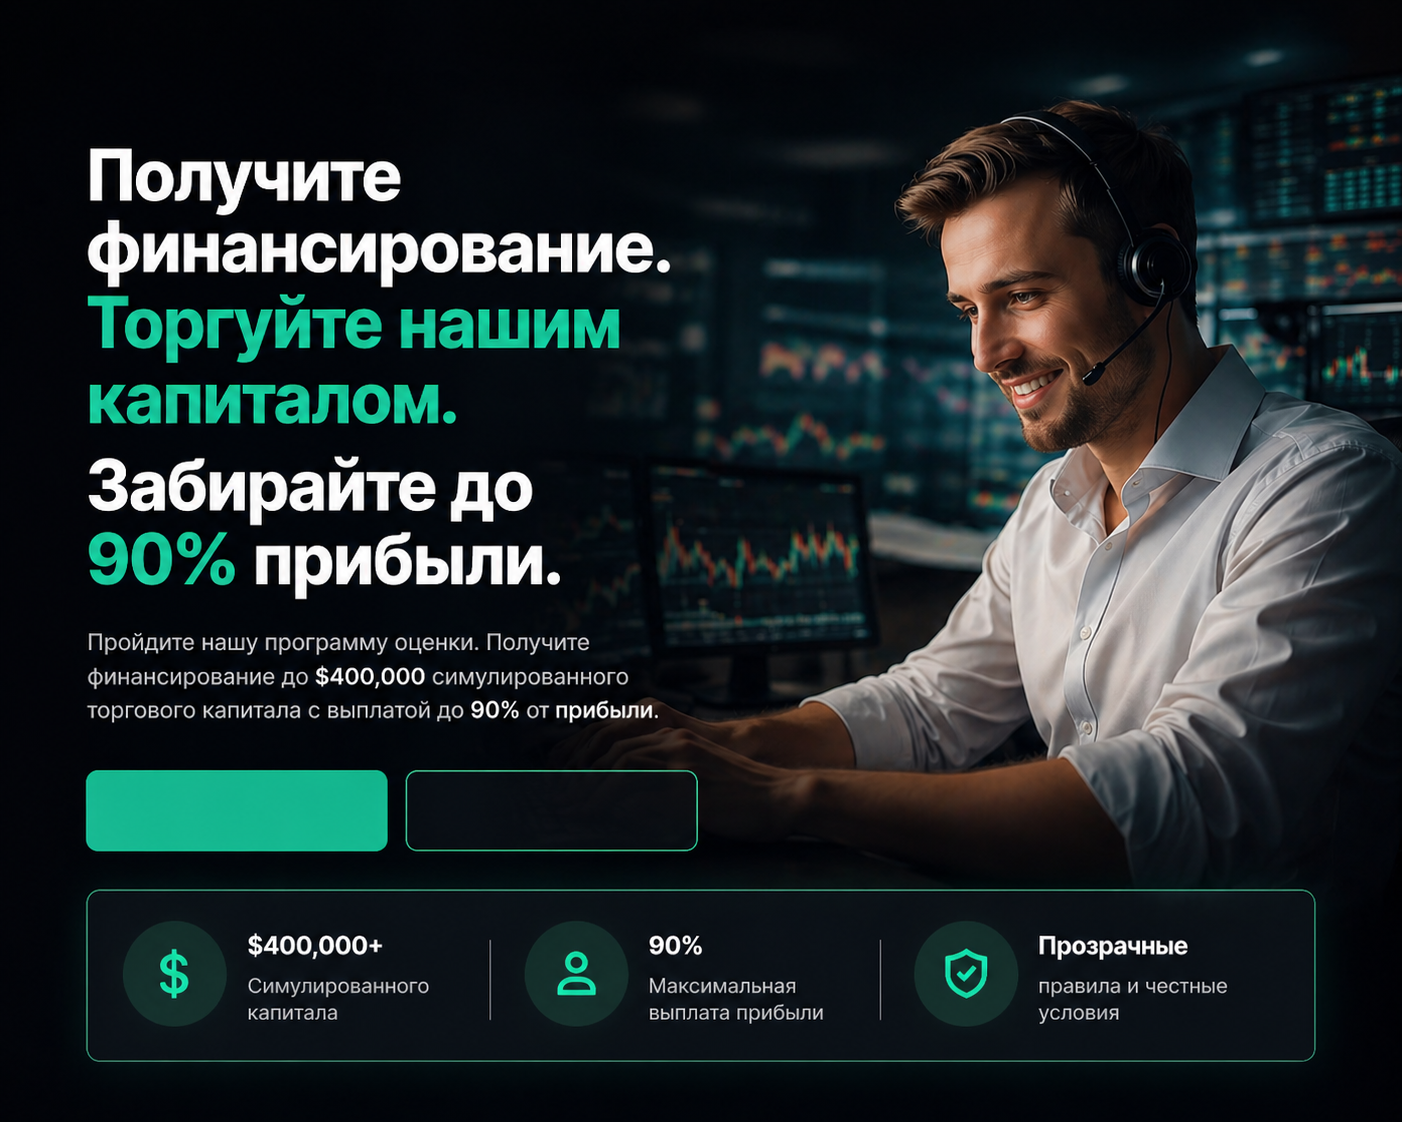
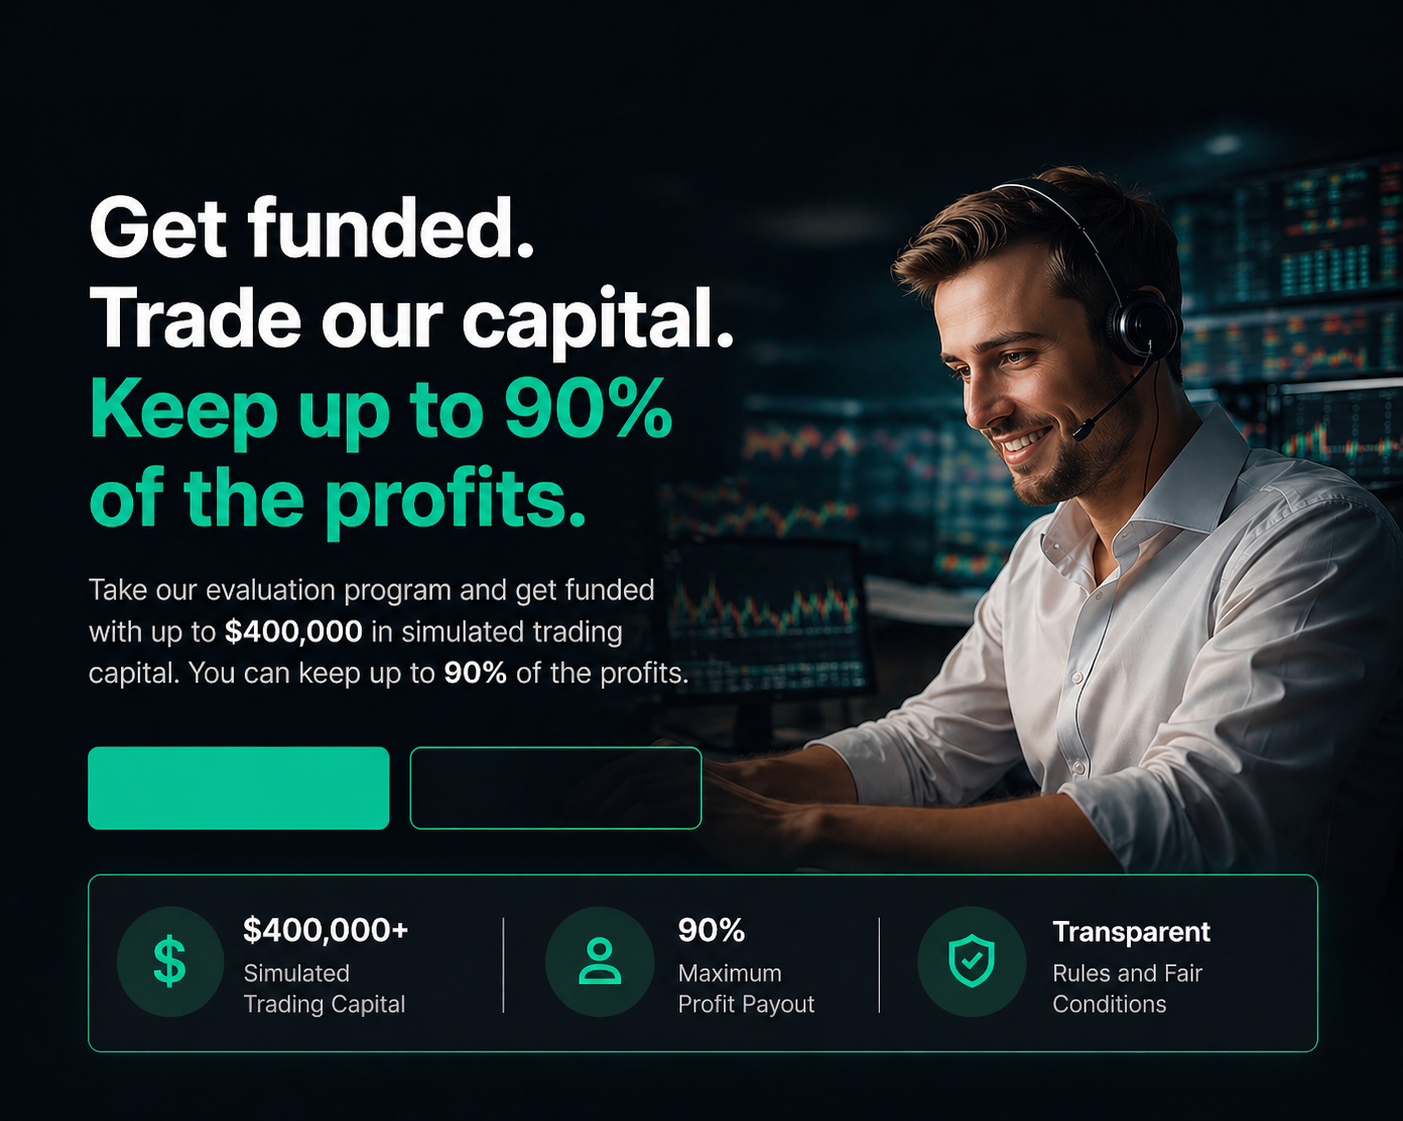
Hero: design match — trader photo bg, text left, stats bar, active buttons

diff --git a/src/web/components/Hero.tsx b/src/web/components/Hero.tsx
@@ -4,151 +4,129 @@ export default function Hero() {
   const { tr, lang } = useLang();
   const ru = lang === "ru";
 
+  const stats = ru
+    ? [
+        { icon: "💲", value: "$400,000+", line1: "Симулированного", line2: "торгового капитала" },
+        { icon: "👤", value: "90%",       line1: "Максимальная",    line2: "выплата прибыли" },
+        { icon: "🛡", value: "Прозрачные", line1: "правила и честные", line2: "условия" },
+      ]
+    : [
+        { icon: "💲", value: "$400,000+", line1: "Simulated",   line2: "Trading Capital" },
+        { icon: "👤", value: "90%",       line1: "Maximum",     line2: "Profit Payout" },
+        { icon: "🛡", value: "Transparent", line1: "Rules and Fair", line2: "Conditions" },
+      ];
+
   return (
-    <section style={{ background: "#0a0e17", paddingTop: "80px" }}>
-      <div style={{
-        position: "relative",
-        width: "100%",
-        minHeight: "clamp(420px, 60vw, 680px)",
-        overflow: "hidden",
-      }}>
-        {/* Background photo */}
+    <section style={{ background: "#060a10", paddingTop: "80px" }}>
+
+      {/* ── HERO PHOTO BLOCK ── */}
+      <div style={{ position: "relative", width: "100%", minHeight: "clamp(400px, 55vw, 660px)", overflow: "hidden" }}>
+
+        {/* Photo */}
         <img
           src="/hero-bg.png"
           alt="Professional trader"
           style={{
-            position: "absolute",
-            top: 0, left: 0,
-            width: "100%",
-            height: "100%",
-            objectFit: "cover",
-            objectPosition: "center top",
-            display: "block",
+            position: "absolute", top: 0, left: 0,
+            width: "100%", height: "100%",
+            objectFit: "cover", objectPosition: "center top",
             zIndex: 0,
           }}
         />
 
-        {/* Dark overlay — left heavy so text readable */}
+        {/* Left gradient — keeps text readable */}
         <div style={{
-          position: "absolute",
-          inset: 0,
-          background: "linear-gradient(to right, rgba(10,14,23,0.92) 0%, rgba(10,14,23,0.75) 45%, rgba(10,14,23,0.25) 75%, rgba(10,14,23,0.1) 100%)",
+          position: "absolute", inset: 0,
+          background: "linear-gradient(to right, rgba(6,10,16,0.95) 0%, rgba(6,10,16,0.80) 38%, rgba(6,10,16,0.30) 65%, rgba(6,10,16,0.0) 100%)",
           zIndex: 1,
         }} />
 
-        {/* Bottom fade */}
+        {/* Bottom fade into stats bar */}
         <div style={{
-          position: "absolute",
-          bottom: 0, left: 0, right: 0,
-          height: "35%",
-          background: "linear-gradient(to top, #0a0e17, transparent)",
+          position: "absolute", bottom: 0, left: 0, right: 0, height: "30%",
+          background: "linear-gradient(to top, #060a10, transparent)",
           zIndex: 2,
         }} />
 
-        {/* Text content */}
+        {/* TEXT */}
         <div style={{
-          position: "relative",
-          zIndex: 10,
-          maxWidth: "1200px",
-          margin: "0 auto",
-          padding: "clamp(48px, 8vw, 100px) 24px clamp(60px, 10vw, 120px)",
+          position: "relative", zIndex: 10,
+          maxWidth: "1200px", margin: "0 auto",
+          padding: "clamp(40px, 7vw, 90px) 32px clamp(80px, 12vw, 130px)",
         }}>
-          <div style={{ maxWidth: "560px" }}>
+          <div style={{ maxWidth: "520px" }}>
 
+            {/* Headline */}
             <h1 style={{
               margin: 0,
-              fontSize: "clamp(34px, 5.5vw, 72px)",
+              fontSize: "clamp(36px, 5.5vw, 72px)",
               fontWeight: 900,
               lineHeight: 1.08,
-              letterSpacing: "-0.025em",
+              letterSpacing: "-0.02em",
               color: "#FFFFFF",
             }}>
               {ru ? (
                 <>
-                  Получите<br />
-                  финансирование.<br />
-                  <span style={{ color: "#00D4AA" }}>Торгуйте нашим<br />капиталом.</span><br />
-                  Забирайте до <span style={{ color: "#00D4AA" }}>90%</span> прибыли.
+                  Получите<br />финансирование.<br />
+                  Торгуйте нашим капиталом.<br />
+                  <span style={{ color: "#00D4AA" }}>Забирайте до 90%<br />прибыли.</span>
                 </>
               ) : (
                 <>
-                  {tr.hero_h1_1}<br />
-                  <span style={{ color: "#00D4AA" }}>{tr.hero_h1_2}</span>
+                  Get funded.<br />
+                  Trade our capital.<br />
+                  <span style={{ color: "#00D4AA" }}>Keep up to 90%<br />of the profits.</span>
                 </>
               )}
             </h1>
 
+            {/* Subtitle */}
             <p style={{
-              marginTop: "clamp(14px, 2vw, 24px)",
-              fontSize: "clamp(14px, 1.4vw, 17px)",
-              color: "rgba(255,255,255,0.72)",
-              lineHeight: 1.65,
-              maxWidth: "460px",
+              marginTop: "clamp(16px, 2vw, 28px)",
+              fontSize: "clamp(14px, 1.3vw, 16px)",
+              color: "rgba(255,255,255,0.68)",
+              lineHeight: 1.7,
+              maxWidth: "420px",
             }}>
-              {tr.hero_sub}{" "}
-              <strong style={{ color: "#fff" }}>{tr.hero_sub_amount}</strong>{" "}
-              {tr.hero_sub_mid}{" "}
-              <strong style={{ color: "#fff" }}>{tr.hero_sub_split}</strong>.
+              {ru
+                ? <>Пройдите нашу программу оценки и получите финансирование до <strong style={{ color: "#fff" }}>$400,000</strong> симулированного торгового капитала. Вы можете забрать до <strong style={{ color: "#fff" }}>90%</strong> прибыли.</>
+                : <>Take our evaluation program and get funded with up to <strong style={{ color: "#fff" }}>$400,000</strong> in simulated trading capital. You can keep up to <strong style={{ color: "#fff" }}>90%</strong> of the profits.</>
+              }
             </p>
 
-            {/* CTA buttons */}
-            <div style={{
-              display: "flex",
-              gap: "12px",
-              marginTop: "clamp(24px, 3vw, 40px)",
-              flexWrap: "wrap",
-            }}>
+            {/* Buttons */}
+            <div style={{ display: "flex", gap: "14px", marginTop: "clamp(24px, 3.5vw, 44px)", flexWrap: "wrap" }}>
               <a
                 href="https://app.probcapital.com"
                 target="_blank"
                 rel="noopener noreferrer"
                 style={{
-                  display: "inline-flex",
-                  alignItems: "center",
-                  justifyContent: "center",
-                  padding: "15px 32px",
-                  borderRadius: "8px",
-                  background: "#00D4AA",
-                  color: "#0a0e17",
-                  fontWeight: 700,
-                  fontSize: "clamp(14px, 1.2vw, 16px)",
-                  textDecoration: "none",
-                  boxShadow: "0 4px 24px rgba(0,212,170,0.5)",
-                  whiteSpace: "nowrap",
-                  cursor: "pointer",
+                  display: "inline-flex", alignItems: "center", justifyContent: "center",
+                  padding: "15px 34px", borderRadius: "8px",
+                  background: "#00D4AA", color: "#060a10",
+                  fontWeight: 700, fontSize: "clamp(14px, 1.2vw, 16px)",
+                  textDecoration: "none", whiteSpace: "nowrap",
+                  boxShadow: "0 4px 28px rgba(0,212,170,0.5)",
                 }}
               >
                 {ru ? "Начать челлендж →" : "Start Challenge →"}
               </a>
-
               <a
                 href="#how-it-works"
                 style={{
-                  display: "inline-flex",
-                  alignItems: "center",
-                  justifyContent: "center",
-                  gap: "8px",
-                  padding: "15px 28px",
-                  borderRadius: "8px",
-                  background: "rgba(255,255,255,0.08)",
-                  border: "1.5px solid rgba(255,255,255,0.3)",
+                  display: "inline-flex", alignItems: "center", justifyContent: "center", gap: "8px",
+                  padding: "15px 28px", borderRadius: "8px",
+                  background: "rgba(255,255,255,0.06)",
+                  border: "1.5px solid rgba(255,255,255,0.28)",
                   color: "#FFFFFF",
-                  fontWeight: 600,
-                  fontSize: "clamp(14px, 1.2vw, 16px)",
-                  textDecoration: "none",
-                  whiteSpace: "nowrap",
-                  cursor: "pointer",
+                  fontWeight: 600, fontSize: "clamp(14px, 1.2vw, 16px)",
+                  textDecoration: "none", whiteSpace: "nowrap",
                 }}
               >
                 <span style={{
-                  display: "inline-flex",
-                  alignItems: "center",
-                  justifyContent: "center",
-                  width: "22px",
-                  height: "22px",
-                  borderRadius: "50%",
-                  border: "1.5px solid rgba(255,255,255,0.5)",
-                  fontSize: "9px",
+                  display: "inline-flex", alignItems: "center", justifyContent: "center",
+                  width: "22px", height: "22px", borderRadius: "50%",
+                  border: "1.5px solid rgba(255,255,255,0.45)", fontSize: "9px",
                 }}>▶</span>
                 {ru ? "Как это работает" : "How It Works"}
               </a>
@@ -157,6 +135,51 @@ export default function Hero() {
           </div>
         </div>
       </div>
+
+      {/* ── STATS BAR ── */}
+      <div style={{ maxWidth: "1200px", margin: "0 auto", padding: "0 32px clamp(24px, 4vw, 48px)" }}>
+        <div style={{
+          display: "grid", gridTemplateColumns: "1fr 1fr 1fr",
+          borderRadius: "12px",
+          background: "#0d1018",
+          border: "1px solid rgba(0,212,170,0.18)",
+          overflow: "hidden",
+        }}>
+          {stats.map((s, i) => (
+            <div key={i} style={{
+              display: "flex", alignItems: "center", gap: "16px",
+              padding: "22px 28px",
+              borderRight: i < 2 ? "1px solid rgba(255,255,255,0.07)" : "none",
+            }}>
+              <div style={{
+                width: "44px", height: "44px", borderRadius: "50%",
+                background: "rgba(0,212,170,0.13)",
+                display: "flex", alignItems: "center", justifyContent: "center",
+                fontSize: "20px", flexShrink: 0,
+              }}>
+                {s.icon}
+              </div>
+              <div>
+                <div style={{ fontSize: "clamp(17px, 1.8vw, 22px)", fontWeight: 800, color: "#FFFFFF", lineHeight: 1.2 }}>
+                  {s.value}
+                </div>
+                <div style={{ fontSize: "clamp(11px, 0.9vw, 13px)", color: "rgba(255,255,255,0.42)", marginTop: "2px", lineHeight: 1.4 }}>
+                  {s.line1}<br />{s.line2}
+                </div>
+              </div>
+            </div>
+          ))}
+        </div>
+      </div>
+
+      {/* Mobile: stack */}
+      <style>{`
+        @media (max-width: 640px) {
+          .hero-stats-grid { grid-template-columns: 1fr !important; }
+          .hero-stats-grid > div { border-right: none !important; border-bottom: 1px solid rgba(255,255,255,0.07) !important; }
+          .hero-stats-grid > div:last-child { border-bottom: none !important; }
+        }
+      `}</style>
     </section>
   );
 }
